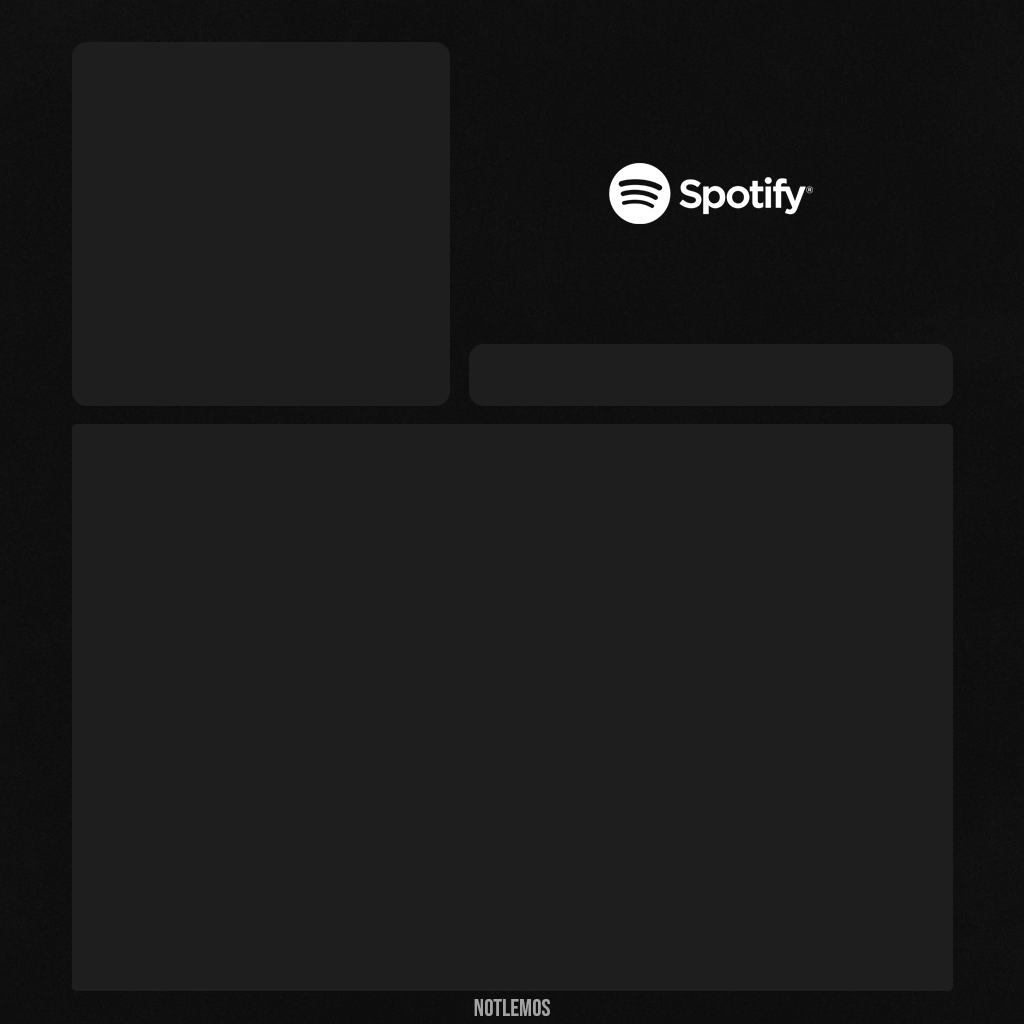
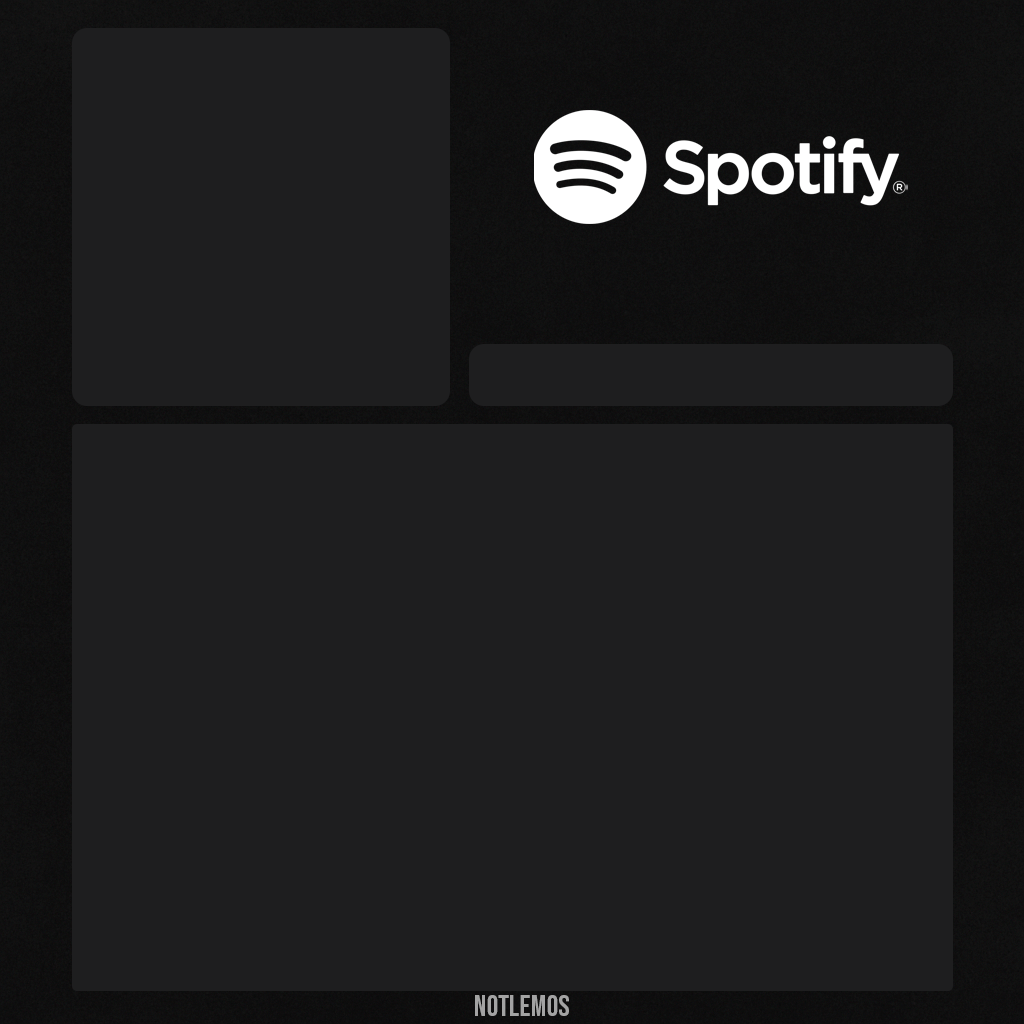
att: update tabela brasileirao

Changed region(s): [[0.5, 0.0938, 0.875, 0.2188], [0.4688, 0.9688, 0.5625, 1.0]]

diff --git a/src/cogs/tabela.py b/src/cogs/tabela.py
@@ -12,96 +12,47 @@ class TabelaView(commands.Cog):
     
     @commands.command(name="tabela")
     async def tabela(self, ctx):
-        image = Image.open('backgrounds/background3.png')
+        image = Image.open('backgrounds/tabelabg.png')
 
         draw = ImageDraw.Draw(image)
-        font = ImageFont.truetype('fonts/Roboto_Condensed-Bold.ttf', size=56)
-        time, ponto = get_tabela()
+        font = ImageFont.truetype('fonts/BebasNeue-Regular.otf', size=32)
+        fontPts = ImageFont.truetype('fonts/BebasNeue-Regular.otf', size=48)
 
-        color = (255,255,255) 
+        times, pontos = get_tabela()
+
         
-        color2 = (0, 22, 190)
-        color3 = (0,14,40)
+        # Coordenadas e offsets
+        # Parte 1 da tabela
+        x1, y1, off1 = 115, 261, 0
+        x2, y2, off2 = 350, 251, 0
 
-        corG4 = (52,230,83)
-        corG6 = (250,123,23)
-        corZ4 = (234,67,53)
-        corResto = (0,5,100)
-        
-        
-        position = list(range(1, 21))
+        # Parte 2 da tabela
 
-        y_off_set = 65
-        texto_cabecalho = "   Posição                  Times                    Pontos"
-        draw.text((200, 280), texto_cabecalho, fill=color, font=font)
-
-        largura_img, altura_img = image.size
+        x3, y3, off3 = 530, 261, 0
+        x4, y4, off4 = 765, 251, 0
 
 
-        largura_tabela = 1000
-        margem_esquerda = (largura_img - largura_tabela) // 2
-
-        pos1 = (margem_esquerda + 220, 370)   # Times
-        pos2 = (margem_esquerda + 895, 370)   # Pontos
-        pos3 = (margem_esquerda + 70, 370)   # Posição
-
-        linha1_x = margem_esquerda
-        linha2_x = margem_esquerda + 820
-        linha3_x = margem_esquerda + 1000
-
-        for i, (t, p, pos) in enumerate(zip(time, ponto, position)):
-            y = pos1[1] + i * y_off_set
-            linha_y = y + 35
-            draw.line((margem_esquerda, linha_y, margem_esquerda + largura_tabela, linha_y), fill=color2, width=60)
-            
-            if pos <= 4:
-                draw.line((margem_esquerda, linha_y, margem_esquerda + largura_tabela, linha_y), fill=color2, width=60)
-                draw.line((margem_esquerda + 200, linha_y , margem_esquerda, linha_y), fill=corG4, width=60)
-                draw.line((margem_esquerda, linha_y + 35, margem_esquerda + largura_tabela, linha_y + 35), fill=color3, width=20)
-            
-            elif pos >= 5 and pos <= 12:
-                draw.line((margem_esquerda, linha_y, margem_esquerda + largura_tabela, linha_y), fill=color2, width=60)
-                draw.line((margem_esquerda + 200, linha_y , margem_esquerda, linha_y), fill=corG6, width=60)
-                draw.line((margem_esquerda, linha_y + 35, margem_esquerda + largura_tabela, linha_y + 35), fill=color3, width=20)
-            
-            elif pos > 16:
-                draw.line((margem_esquerda, linha_y, margem_esquerda + largura_tabela, linha_y), fill=color2, width=60)
-                draw.line((margem_esquerda + 200, linha_y , margem_esquerda, linha_y), fill=corZ4, width=60)
-                draw.line((margem_esquerda, linha_y + 35, margem_esquerda + largura_tabela, linha_y + 35), fill=color3, width=20)
-            
+        for i, (time, pontos) in enumerate(zip(times, pontos), 1):
+            if i <= 10:
+                draw.text((x1, y1 + off1), f"{time}", fill="white", font=font)
+                draw.text((x2, y2 + off2), f"{pontos:02d}", fill="white", font=fontPts)
+                off1 += 50
+                off2 += 50
             else:
-                draw.line((margem_esquerda, linha_y, margem_esquerda + largura_tabela, linha_y), fill=color2, width=60)
-                draw.line((margem_esquerda + 200, linha_y , margem_esquerda, linha_y), fill=corResto, width=60)
-                draw.line((margem_esquerda, linha_y + 35, margem_esquerda + largura_tabela, linha_y + 35), fill=color3, width=20)
+                draw.text((x3, y3 + off3), f"{time}", fill="white", font=font)
+                draw.text((x4, y4 + off4), f"{pontos:02d}", fill="white", font=fontPts)
+                off3 += 50
+                off4 += 50
             
-            draw.text((pos1[0], y), t, fill=color, font=font)
-            draw.text((pos2[0]-10, y), f"{p:02d}", fill=color, font=font)
-            draw.text((pos3[0], y), f"{pos:02d}", fill=color, font=font)
-            
-            
-
-        # Linhas verticais centralizadas
-        draw.line((linha1_x, 366, linha1_x, 25.90 * y_off_set), fill=color3, width=20)
-        draw.line((linha2_x, 366, linha2_x, 25.90* y_off_set), fill=color3, width=20) # Direita Pontos
-        draw.line((linha3_x, 366, linha3_x, 25.90 * y_off_set), fill=color3, width=20) 
-
-        # Linha entre "Posição" e "Times" 
-
-        draw.line((linha1_x+190, 366, linha1_x+190, 25.90 * y_off_set), fill=color3, width=20)
-
-
-        # Linhas horizontais e rodapé
-
-        draw.line((211, linha_y+35, 1230, linha_y+35), fill=color3, width=20)
-        draw.line((211, 360, 1230, 360), fill=color3, width=20)
-
-            
-
         image.save("tabela.png")
-            
-        
+
+                    
+
+                
+                    
+                
         file = discord.File("tabela.png", filename="tabela.png")
-        
+                
         await ctx.send(file=file)
 async def setup(bot):
     await bot.add_cog(TabelaView(bot))
